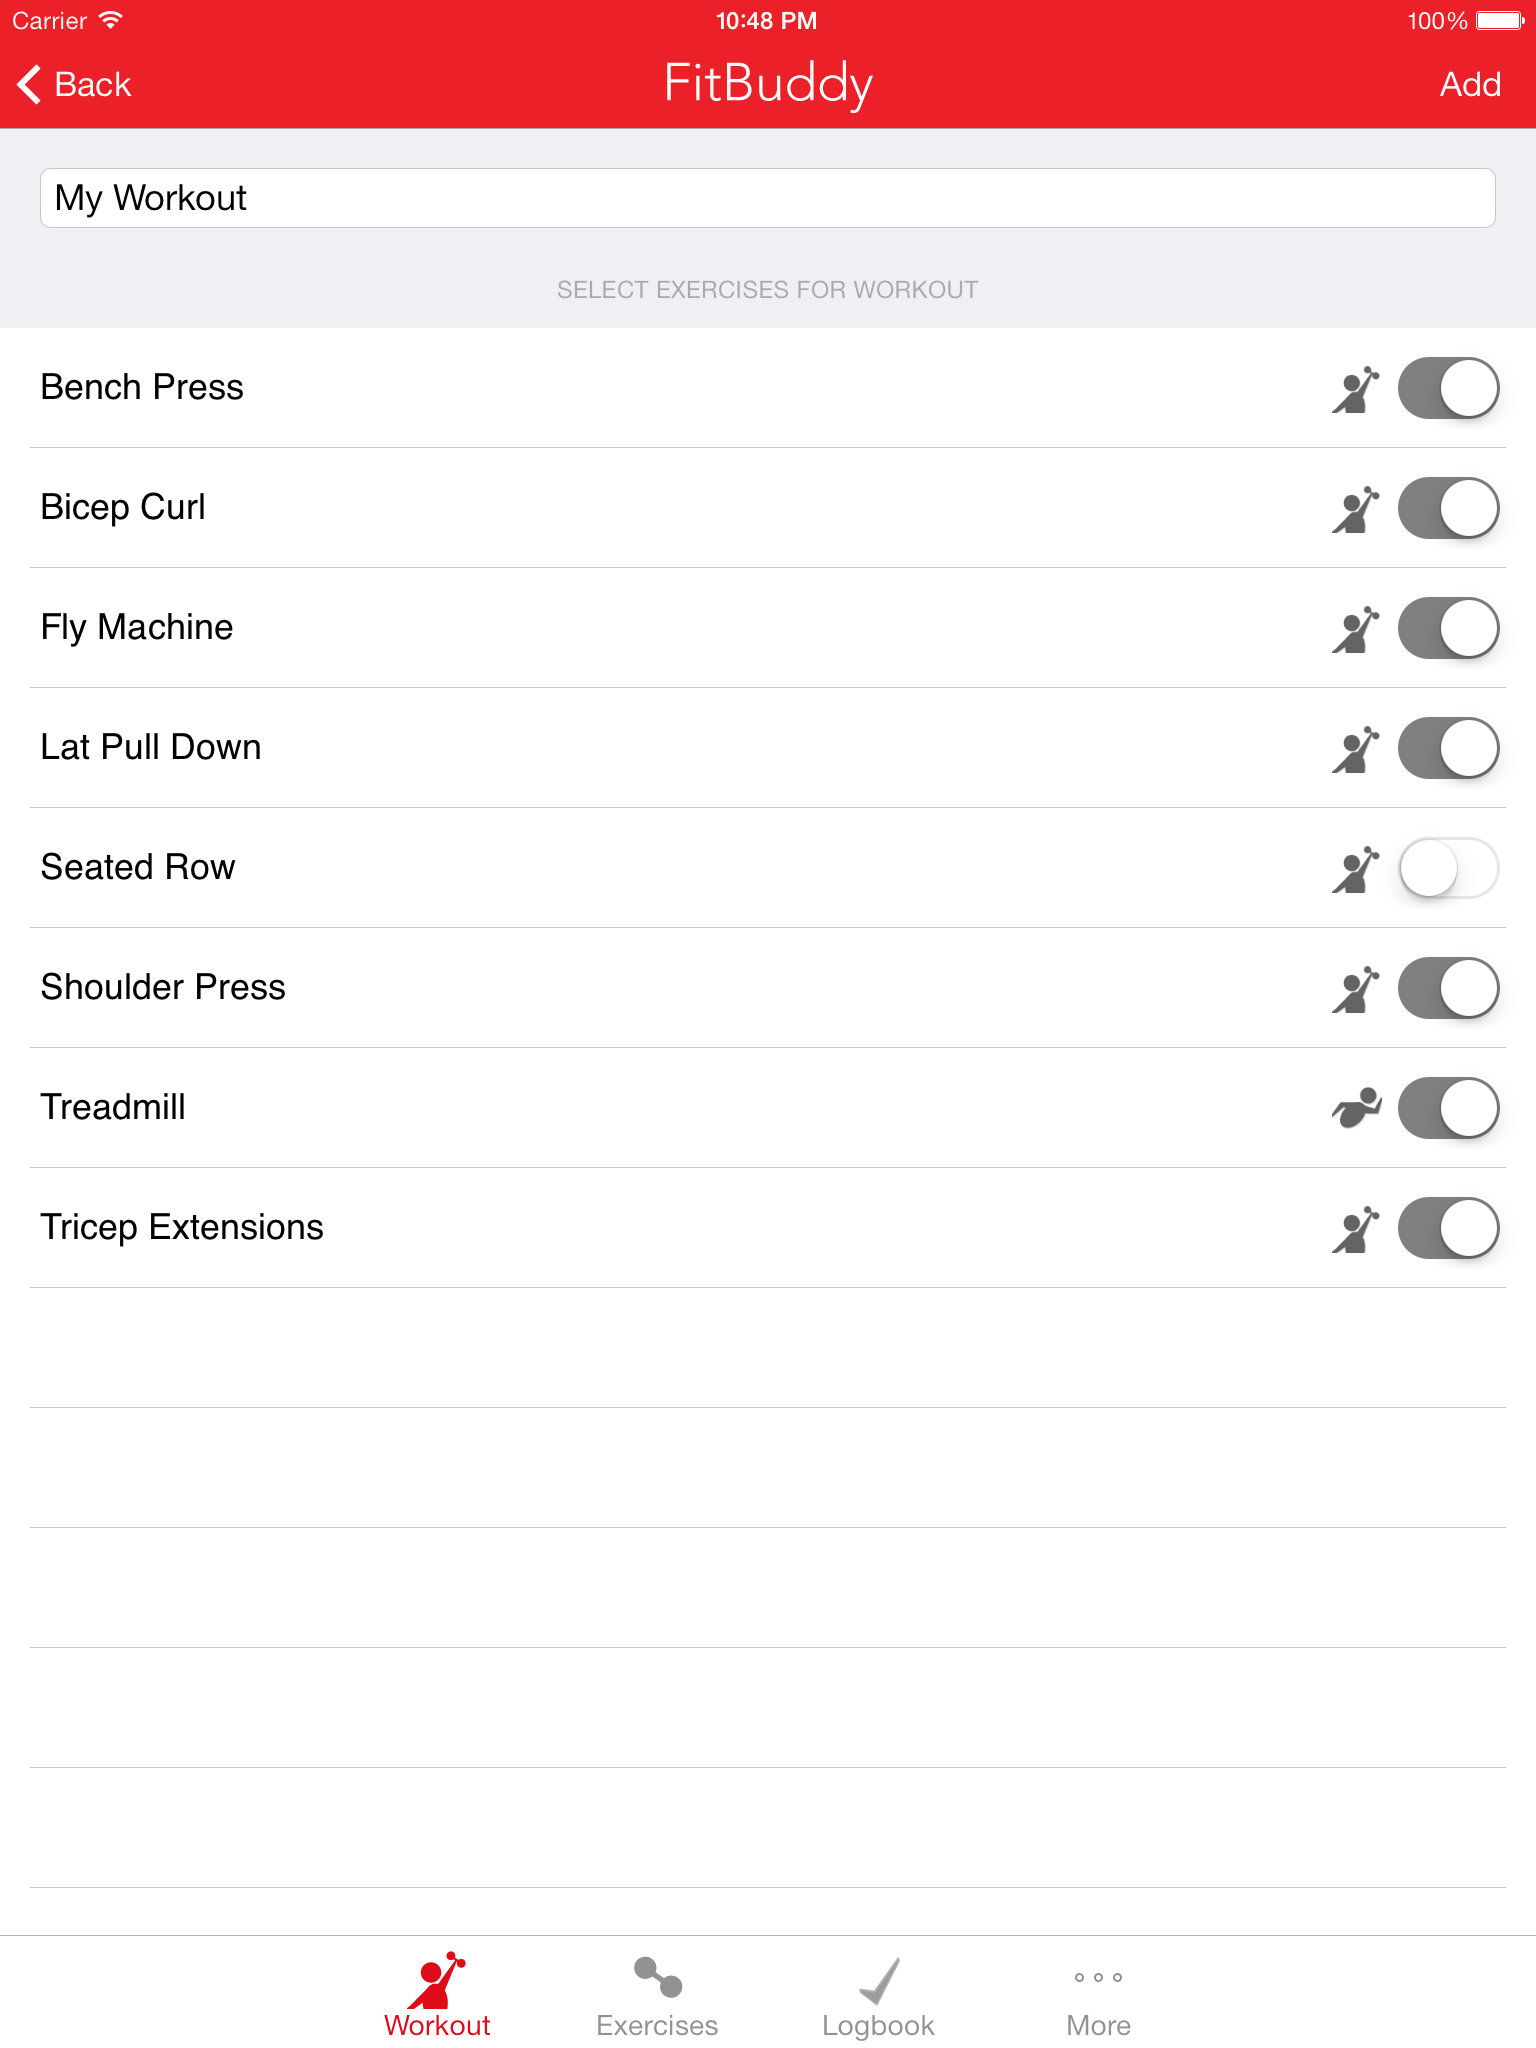
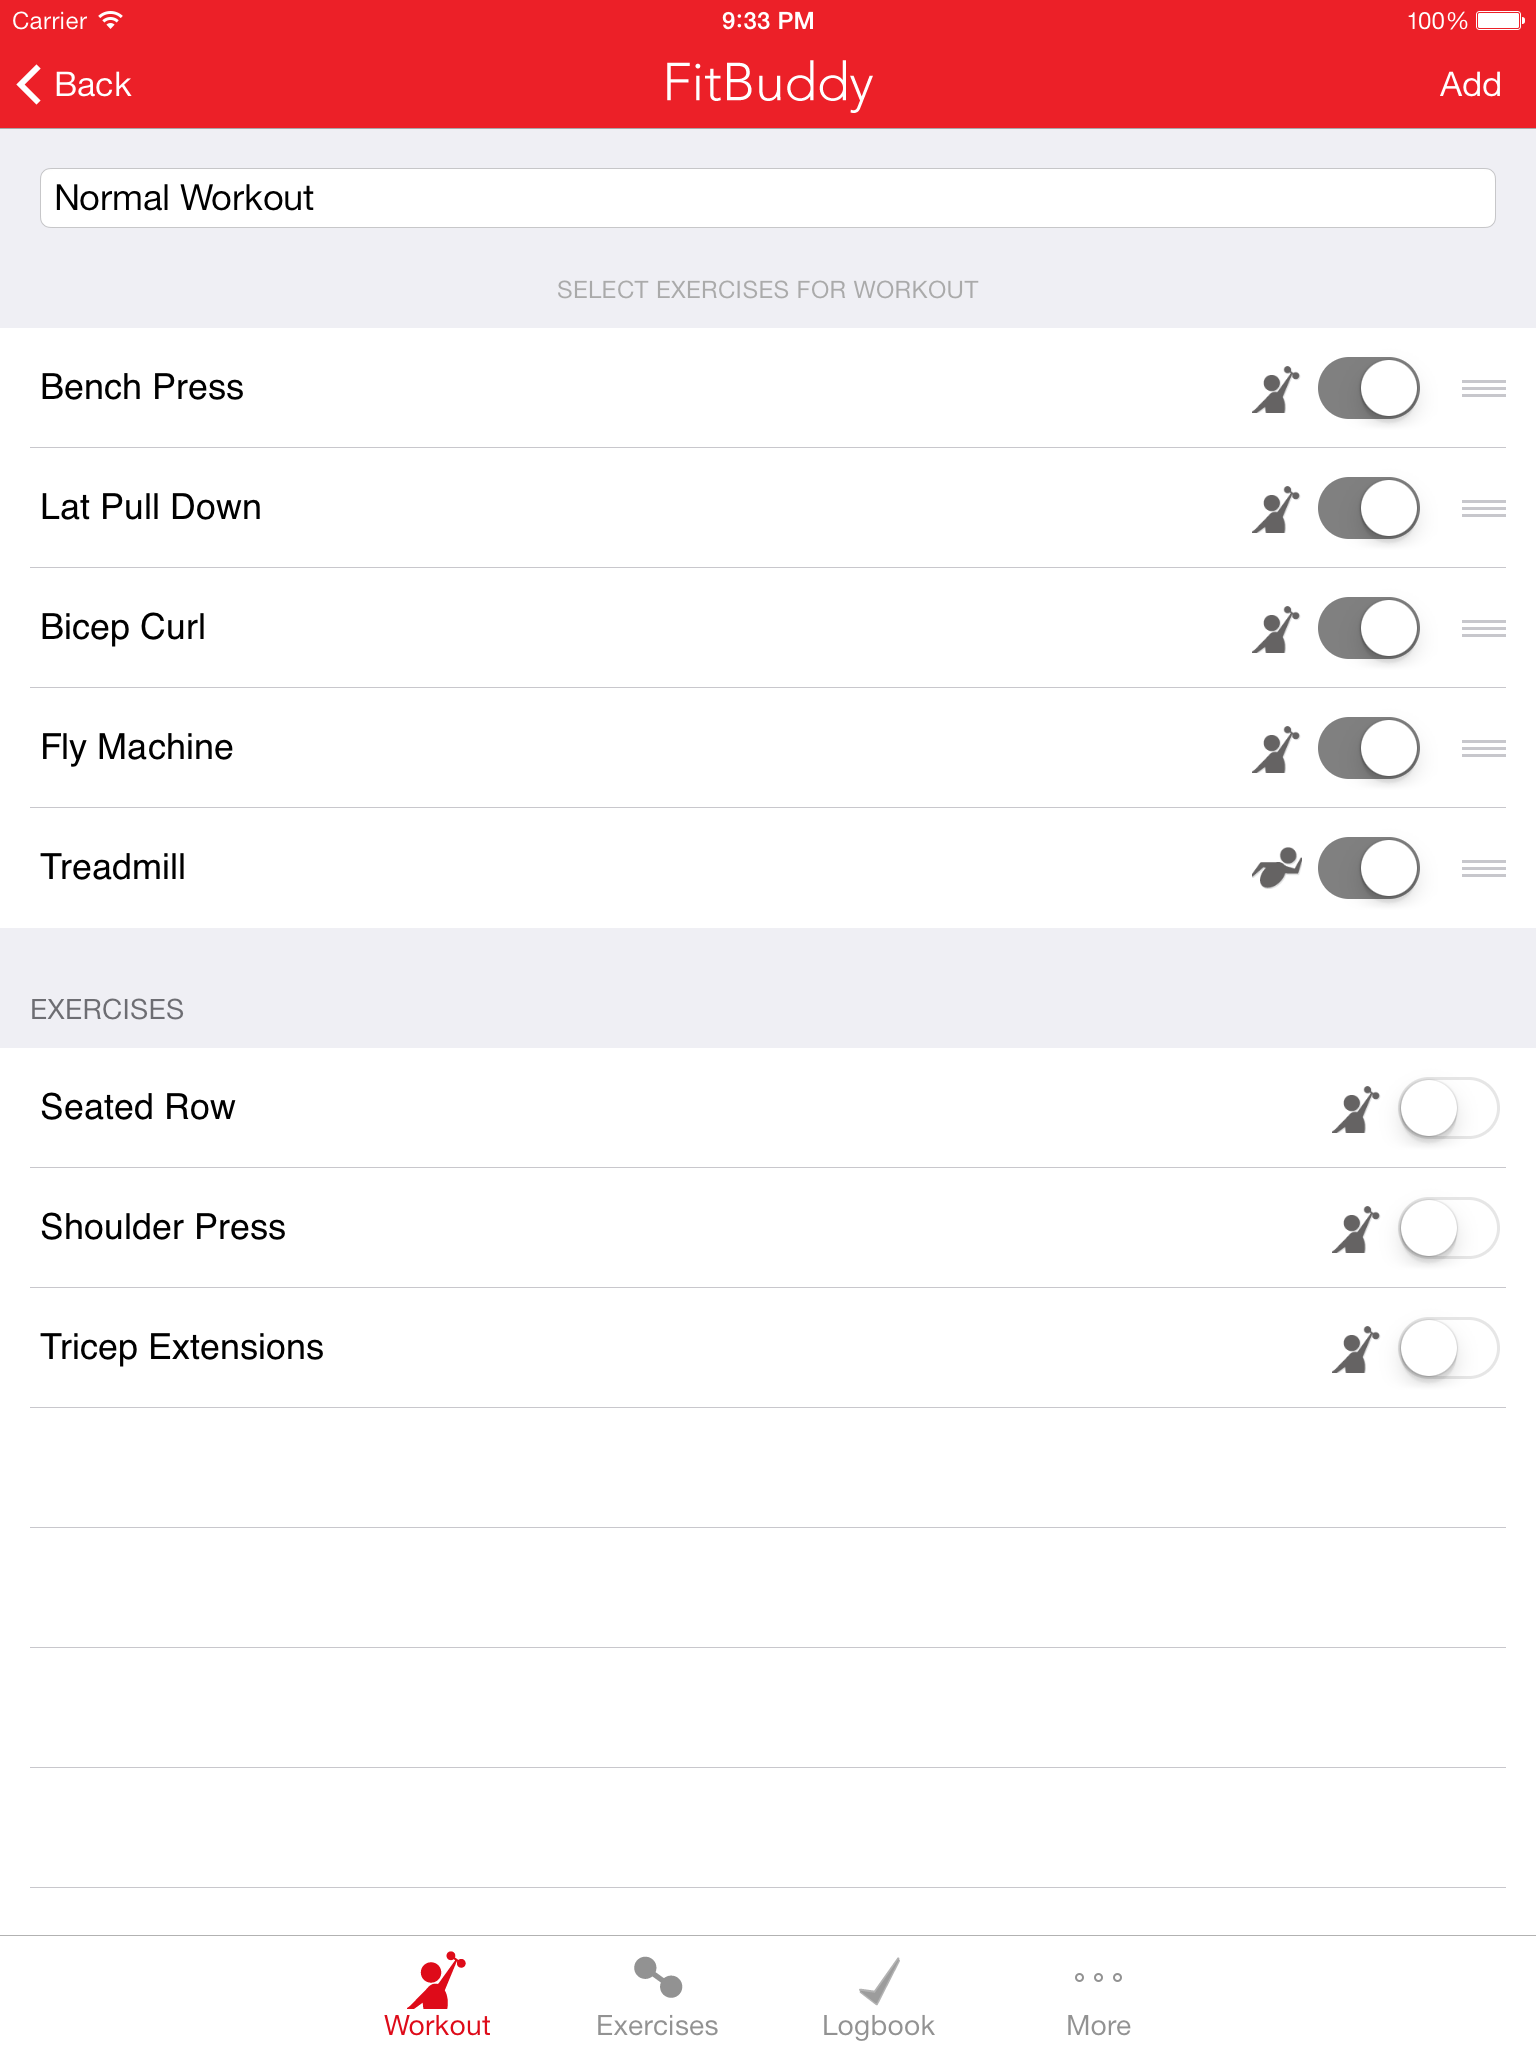
Updating screenshots. Automatically add new exercise to workout when adding from th workout edit screen.

diff --git a/FitBuddy/Components/FitBuddyMacros.h b/FitBuddy/Components/FitBuddyMacros.h
@@ -124,7 +124,7 @@
 #endif
 
 // DEMO SETTINGS
-#define kDEMO_PAGE_TITLES   @[@"Tap Add to start setting up a workout.", @"Set a name for the workout and tap Add to add more exercies.", @"Use the toggle to mark as cardio (pace/distance) or resistance.", @"Use the switches to add exercies to your workout.", @"Select your workout and tap Start to begin.", @"Swipe through your workout and tap the Log button to record activity.", @"Tap Finish to complete the workout and go to the stats page.", @"When you're finished, the Logbook tab gives you a quick rundown of your efforts." ];
+#define kDEMO_PAGE_TITLES   @[@"Tap Add to start setting up a workout.", @"Set a name for the workout and tap Add to add more exercies.", @"Use the toggle to mark as cardio (pace/distance) or resistance.", @"Use the switches to add exercies to your workout. Drag to reorder.", @"Select your workout and tap Start to begin.", @"Swipe through your workout and tap the Log button to record activity.", @"Tap Finish to complete the workout and go to the stats page.", @"When you're finished, the Logbook tab gives you a quick rundown of your efforts." ];
 #define kDEMO_PAGE_IMAGES   @[@"page1", @"page2", @"page3", @"page4", @"page5", @"page6", @"page7", @"page8"];
 
 

diff --git a/FitBuddy/MainViewControllers/WorkoutAddViewController.m b/FitBuddy/MainViewControllers/WorkoutAddViewController.m
@@ -121,6 +121,8 @@
                                                object:nil];
     
     [self.tableView setEditing:YES];
+    
+    [self.tableView reloadData];
 }
 
 - (void) workoutNameTextFieldFinished:(UITextField *)sender {
@@ -284,7 +286,7 @@
     
     [self.tableView reloadData];
     
-    NSLog(@"Exercise: %@ added to Workout: %@ Count: %d", exercise.name, self.workout.workout_name, self.workout.exercises.count);
+    NSLog(@"Exercise: %@ added to Workout: %@ Count: %lu", exercise.name, self.workout.workout_name, (unsigned long)self.workout.exercises.count);
     
 }
 
@@ -376,6 +378,16 @@
     }
     
     return proposedDestinationIndexPath;
+}
+
+- (void)prepareForSegue:(UIStoryboardSegue *)segue sender:(id)sender
+{
+    if ([segue.identifier isEqualToString:@"Add Exercise Segue"])
+    {
+        [segue.destinationViewController performSelector:@selector(setExerciseArray:) withObject:assignedExercises];
+        [segue.destinationViewController performSelector:@selector(setWorkoutSet:) withObject:self.self.workoutSet];
+    }
+    
 }
 
 

diff --git a/FitBuddy/WorkoutModeControllers/WorkoutSummaryViewController.m b/FitBuddy/WorkoutModeControllers/WorkoutSummaryViewController.m
@@ -148,7 +148,7 @@ NSFetchedResultsController *frc;
 -(void) setForm
 {
     self.completedValue.text = [NSString stringWithFormat:@"%1.0f%%", ([self.finalProgress floatValue] * 100)];
-    self.numExercisesValue.text = [NSString stringWithFormat:@"%d", (self.logbookEntries.count - self.skippedEntries.count)];
+    self.numExercisesValue.text = [NSString stringWithFormat:@"%lu", (self.logbookEntries.count - self.skippedEntries.count)];
     [self setLogbookScores];
 }
 

diff --git a/FitBuddy/MainViewControllers/ExerciseAddViewController.h b/FitBuddy/MainViewControllers/ExerciseAddViewController.h
@@ -7,9 +7,13 @@
 //
 
 #import <UIKit/UIKit.h>
+#import "Workout.h"
 
 @interface ExerciseAddViewController : UIViewController
 @property (weak, nonatomic) IBOutlet UITextField *addExerciseField;
 @property (weak, nonatomic) IBOutlet UISegmentedControl *exerciseTypeToggle;
+
+@property (strong, nonatomic) NSMutableArray *exerciseArray;
+@property (nonatomic, strong) NSMutableOrderedSet *workoutSet;
 
 @end

diff --git a/FitBuddy/MainViewControllers/ExerciseAddViewController.m b/FitBuddy/MainViewControllers/ExerciseAddViewController.m
@@ -60,6 +60,16 @@
         NSError *error;
         [context save:&error];
         if (DEBUG) NSLog(@"Exercise created");
+        
+        if (self.exerciseArray)
+        {
+            [self.exerciseArray addObject:newExercise];
+        }
+        
+        if (self.workoutSet)
+        {
+            [self.workoutSet addObject:newExercise];
+        }
     }
 }
 
